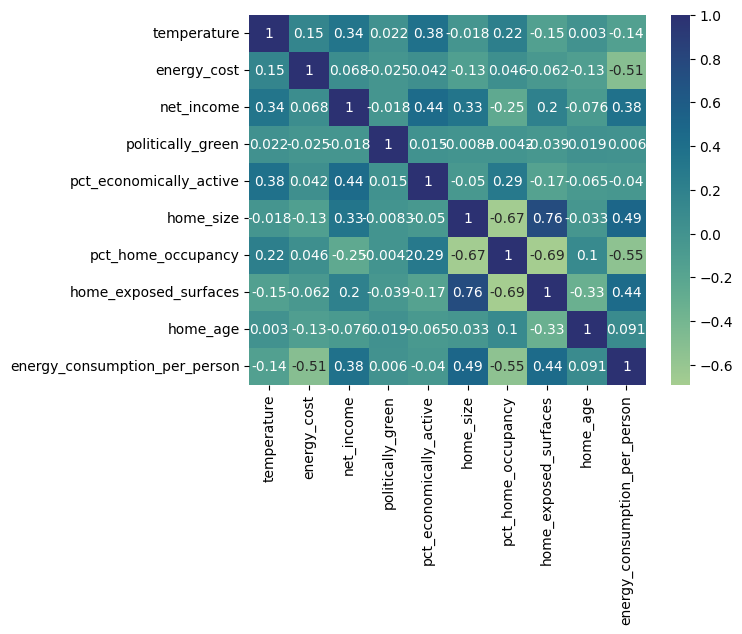
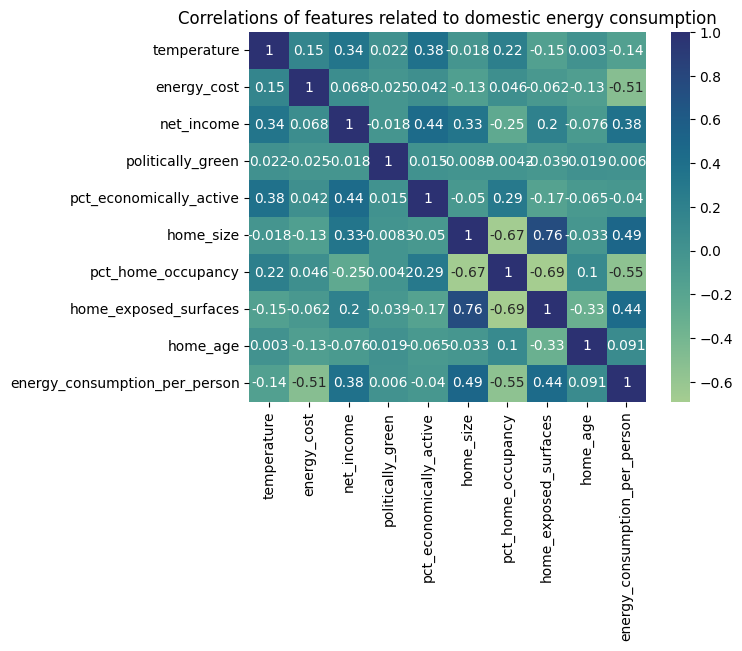
update plots

diff --git a/analyse.py b/analyse.py
@@ -50,6 +50,7 @@ logging.info("Join shapefile with energy data, averaged by local authority, and 
 df_energy = df.groupby("LA")["energy_consumption_per_person"].mean().reset_index()
 las = las.merge(df_energy, on="LA", how="left")
 las.plot(column="energy_consumption_per_person", cmap="OrRd", edgecolor="k", legend=True)
+plt.title("Domestic energy consumption per person across the UK")
 logging.info("Saving plot to a local .png")
 plt.savefig('energy_consumption_per_person_by_uk_local_authority.png')
 plt.close()
@@ -63,8 +64,15 @@ corr_heatmap = sns.heatmap(corr_data, cmap="crest", annot=True)
 corr_heatmap.set(xlabel="", ylabel="")
 corr_heatmap.xaxis.tick_bottom()
 plt.xticks(rotation=90)
+plt.title("Correlations of features related to domestic energy consumption")
 logging.info("Saving plot to a local .png")
 plt.savefig("correlations_of_features.png", bbox_inches="tight")
+plt.close()
+
+logging.info("Plotting histogram of each variable, saving to local .png")
+df.hist(bins=20, figsize=(10,10), color="purple")
+plt.title("Distribution of features related to domestic energy consumption")
+plt.savefig("histogram_of_features.png")
 plt.close()
 
 ############# CAUSAL ANALYSIS #################################
